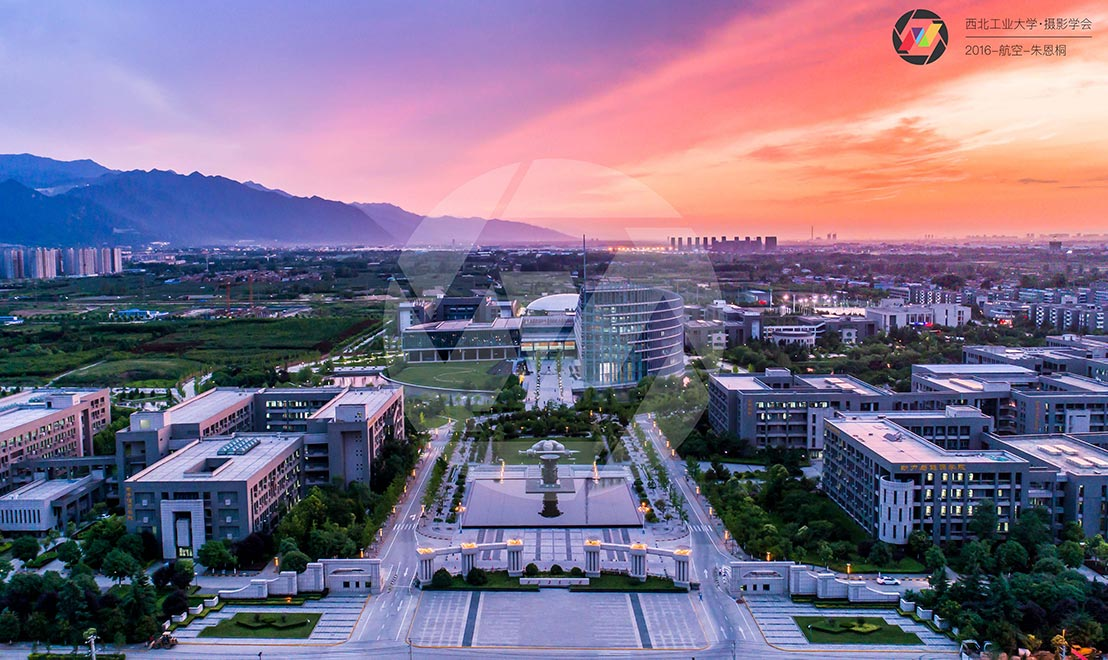
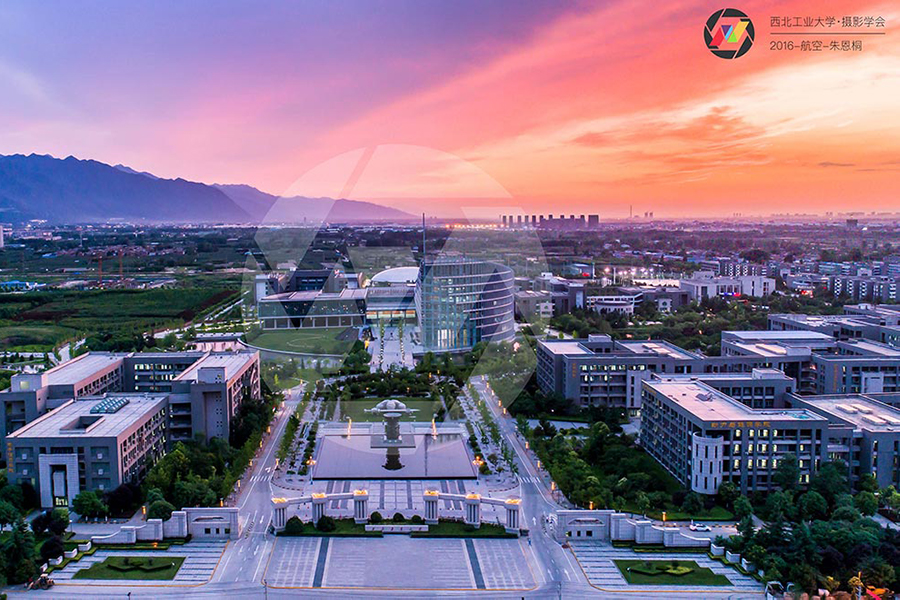
统一了图片分辨率并进一步降低图片大小

diff --git a/index.html b/index.html
@@ -4,7 +4,7 @@
 <meta charset="utf-8">
 <meta http-equiv="X-UA-Compatible" content="IE=edge">
 <meta name="viewport" content="width=device-width, initial-scale=1">
-<title>西工大摄影学会·西瓜像素</title>
+	<title>西工大摄影学会·西瓜像素</title>
 
 <!-- Bootstrap -->
 <link rel="stylesheet" href="css/bootstrap.css">
@@ -52,51 +52,6 @@
   </div>
   <!-- /.container-fluid --> 
 </nav>
-	
-<style>
-	ul
-	{
-		list-style-type:none;
-		margin:0;
-		padding:0;
-		overflow:hidden;
-	}
-	li
-	{
-		float:left;
-	}
-	a:link,a:visited
-	{
-		display:block;
-		width:120px;
-		font-weight:bold;
-		color:#000000;
-		background-color:#FFFFFF;
-		text-align:center;
-		padding:4px;
-		text-decoration:none;
-		text-transform:uppercase;
-	}
-	a:hover,a:active
-	{
-		background-color:#8B8B8B;
-	}
-
-</style>
-</head>
-
-<body>
-	<ul>
-	<li><a href="#home">主页</a></li>
-	<li><a href="#news">新闻</a></li>
-	<li><a href="#contact">联系</a></li>
-	<li><a href="#about">关于</a></li>
-	</ul>
-</body>
-	
-	
-	
-	
 	
 	
 <section>
